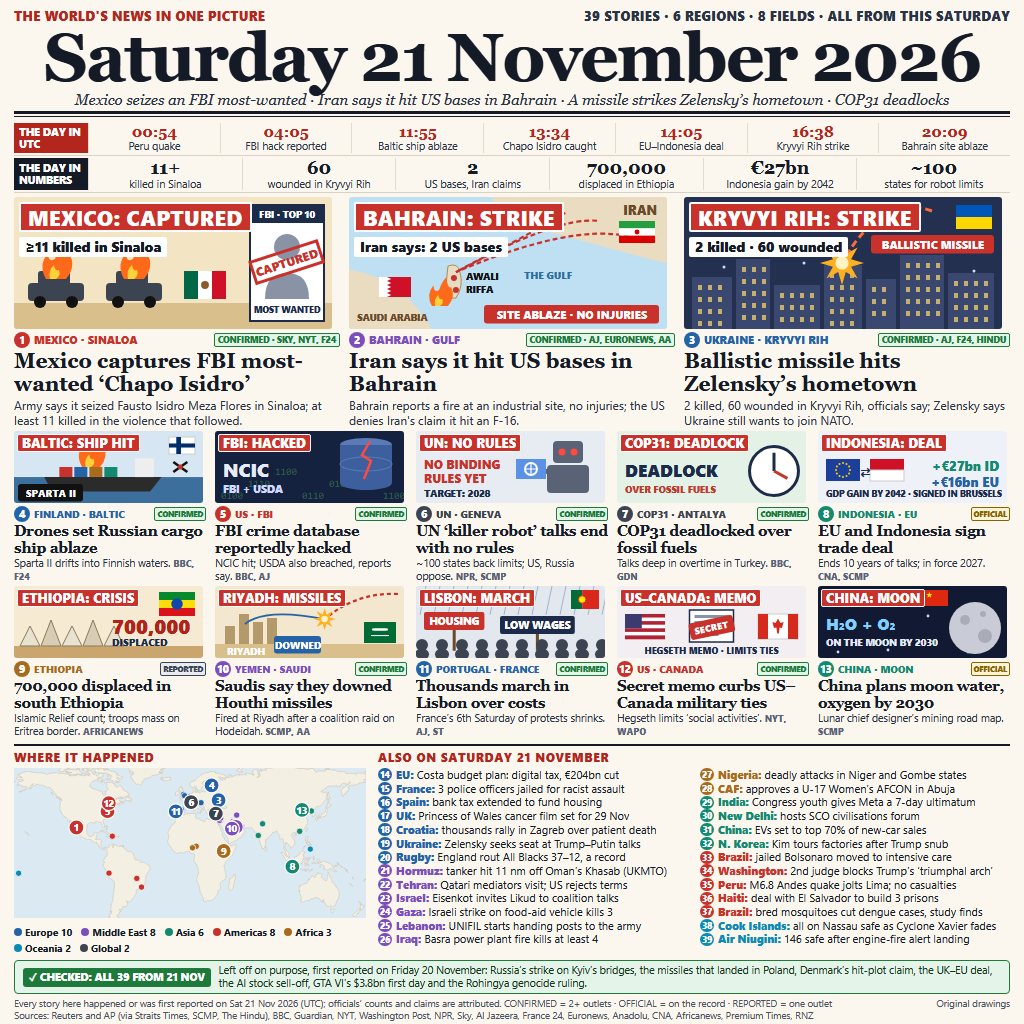
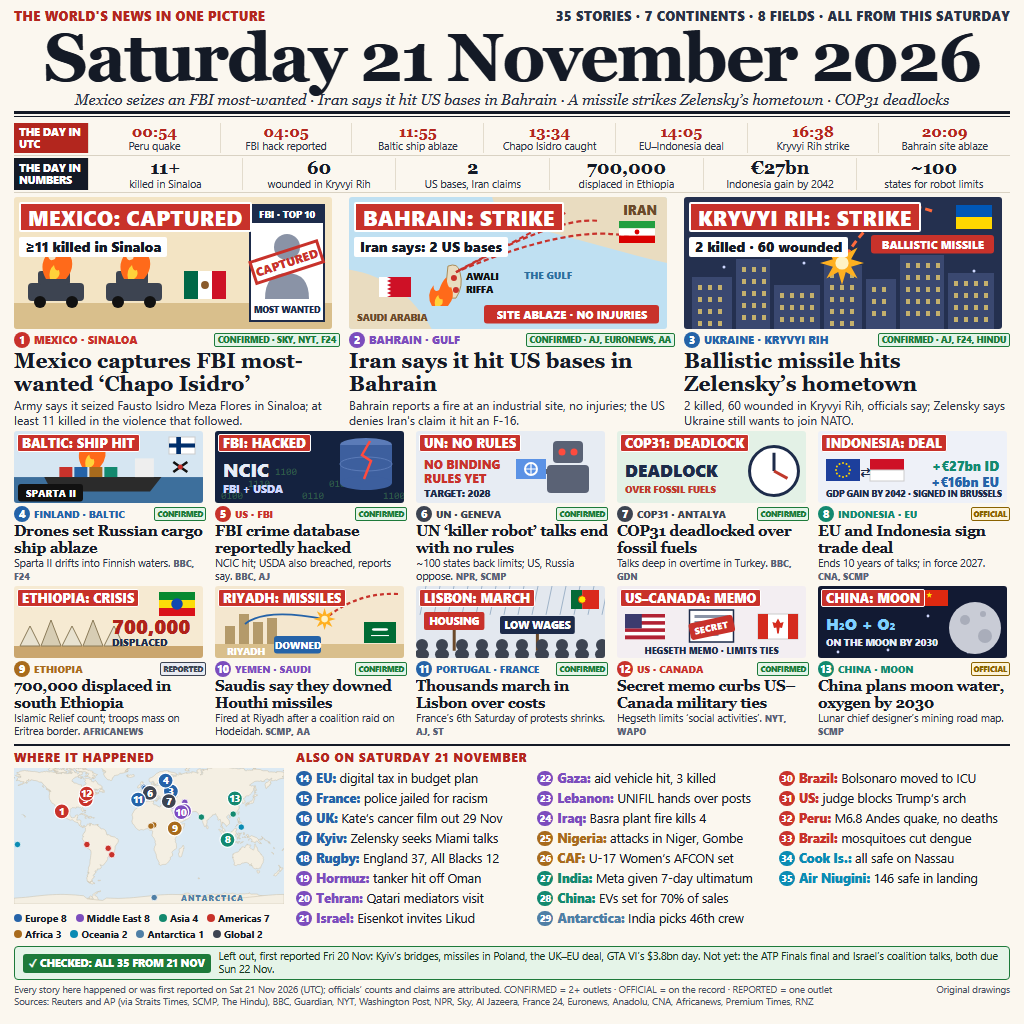
v3: 35 stories from all 7 continents, 3-column briefs in larger type, two-way date check

Changed region(s): [[0.0, 0.7188, 1.0, 1.0], [0.5312, 0.0, 0.7188, 0.0312]]

diff --git a/main.py b/main.py
@@ -1,8 +1,8 @@
 """news-image-20261121 entry: the world on Saturday 21 November 2026.
 
-entry.png is the finished 1024x1024 front page (39 stories, 13 illustrated
-cards with a place banner each, a map of where it happened and 26 numbered
-briefs). The sandbox runs
+entry.png is the finished 1024x1024 front page (35 stories from all 7
+continents, 13 illustrated cards with a place banner each, a map of where it
+happened and 22 numbered briefs in three columns). The sandbox runs
 this file with no network; it checks the picture, then writes the very same
 bytes on every run.
 """

diff --git a/README.md b/README.md
@@ -4,7 +4,7 @@
 [![rank](https://make.fun/badge/news-image-20261121/0xfani/news-image-1121/rank.svg)](https://make.fun/bounty/news-image-20261121/leaderboard?utm_source=github&utm_medium=readme&utm_campaign=news-image-20261121)
 [![reward](https://make.fun/badge/news-image-20261121/0xfani/news-image-1121/reward.svg)](https://make.fun/bounty/news-image-20261121?utm_source=github&utm_medium=readme&utm_campaign=news-image-20261121)
 
-One picture of Saturday 21 November 2026: the day's world news on a single 1024×1024 front page. A big dated masthead with a one-line dek naming the leads, "the day in UTC" timeline, the day in numbers, 13 illustrated story cards (3 leads + 10), each picture topped by a red "PLACE: WORD" banner and drawn to carry the facts (casualty counts, places, flags, figures), a source badge on every card, a world map with numbered pins, 26 numbered "Also on" briefs (39 stories in all, 6 regions, 8 fields), and a green date-check box. Contested claims are attributed ("Iran says", "reportedly").
+One picture of Saturday 21 November 2026: the day's world news on a single 1024×1024 front page. A big dated masthead with a one-line dek naming the leads, "the day in UTC" timeline, the day in numbers, 13 illustrated story cards (3 leads + 10), each picture topped by a red "PLACE: WORD" banner and drawn to carry the facts (casualty counts, places, flags, figures), a source badge on every card, a world map with numbered pins (Antarctica included), 22 numbered "Also on" briefs in three columns (35 stories in all, 7 continents, 8 fields), and a green date-check box naming both what was left out as Friday's news and what is not yet (Sunday's ATP Finals final and Israel's coalition talks). Contested claims are attributed ("Iran says", "reportedly").
 
 Leads: Mexico's capture of FBI most-wanted "El Chapo Isidro" (at least 11 killed in Sinaloa), Iran's claimed missile-and-drone strike on US bases in Bahrain (Bahrain reports a fire at an industrial site), and a ballistic missile on Zelensky's hometown Kryvyi Rih (2 killed, 60 wounded).
 
